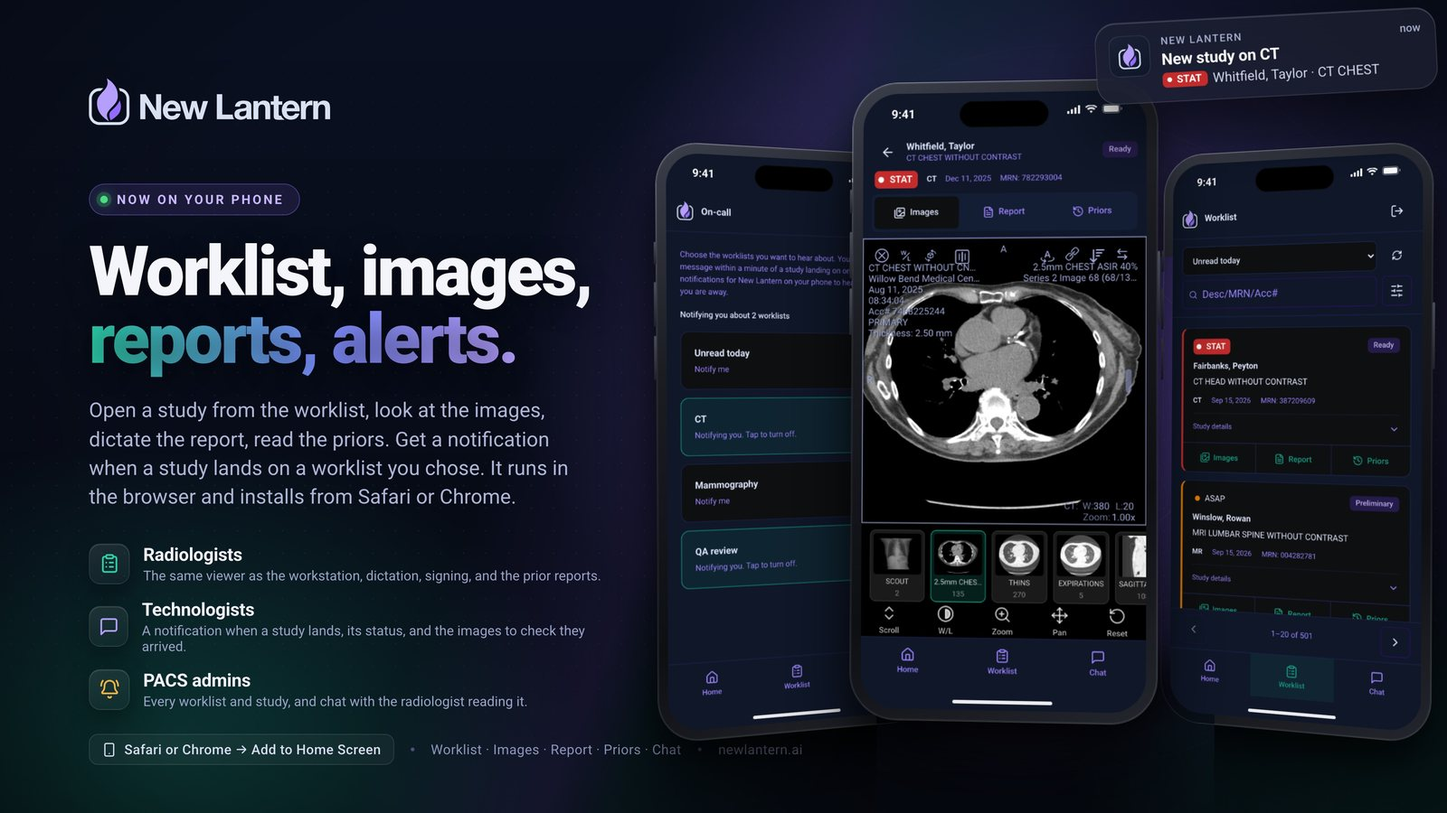
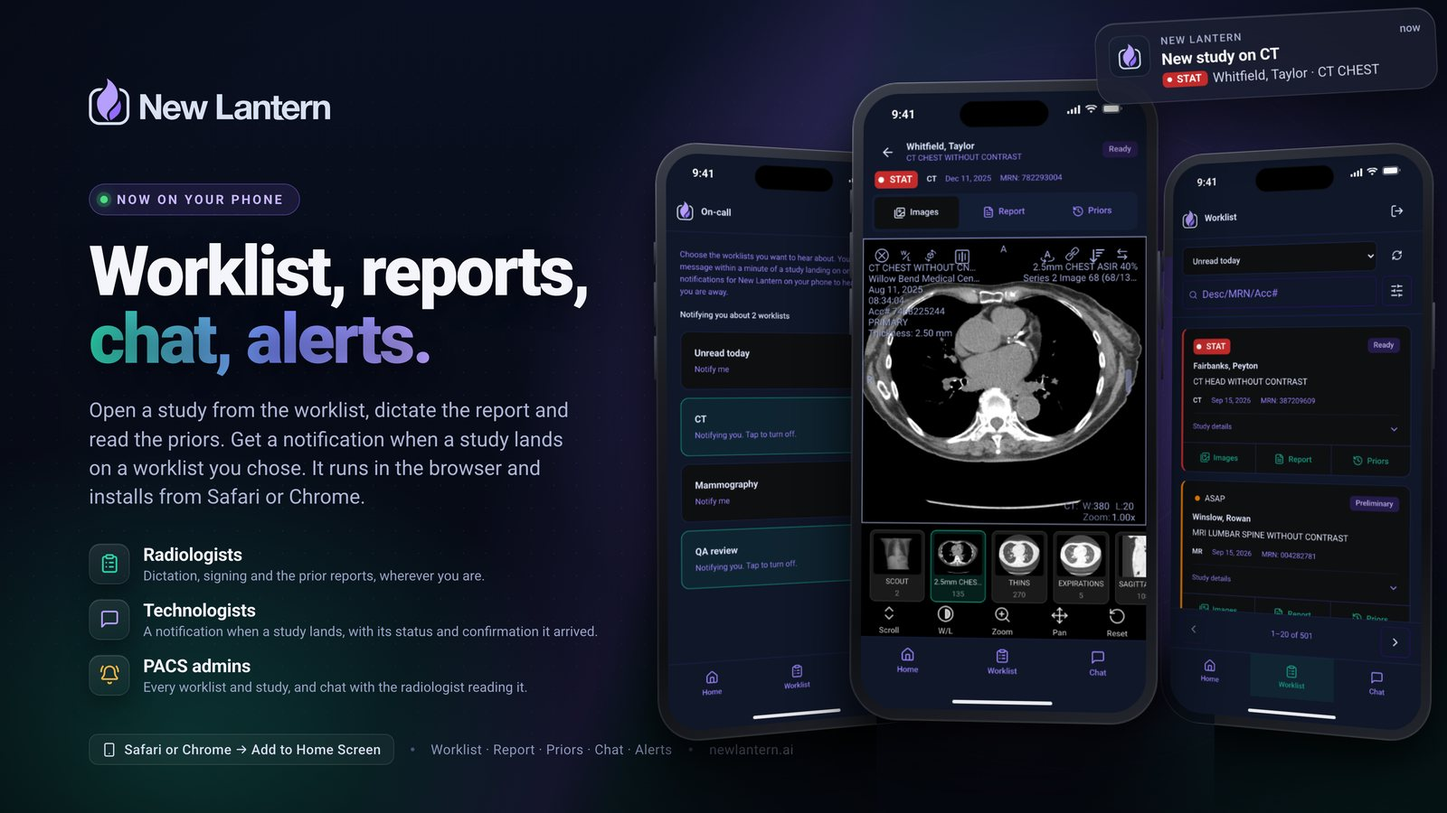
chore(content): describe the phone app viewer without diagnostic claims
Updates the phone app bullet, the phone promo image copy and the
resume PDF.

diff --git a/index.html b/index.html
@@ -110,7 +110,7 @@
                     <rect width="167.118" height="32" fill="white"></rect>
                   </clipPath>
                 </defs>
-              </svg></a></div><div class="role"><span class="dates">Nov 2025 — Present</span><h4 class="role-title"><b>Principal Software Engineer</b> – New Lantern</h4><ul class="highlights"><li>Lead the Viewer team (3 engineers) and own the imaging roadmap. Authored 575 merged PRs across frontend, backend, infra and ML services; reviewed 456 more from 15+ engineers.</li><li>Launched HyperSync: cross-study registration on a Modal-hosted ANTs service (rigid + affine, scored by mutual information) that aligns priors to the current exam, so scrolling, measurements and trend charts follow anatomy. Cut registration from ~3 min to 16 s.</li><li>Cut viewport interaction latency from 3,000 ms to 30 ms on 23,000-image studies and rebuilt frame caching from production telemetry. Platform p90 study load time fell 46% (19.4 s to 10.4 s).</li><li>Rebuilt the admin experience as /manage, one in-product portal for users, studies, patients, sites, billing, audit logs, onboarding, report delivery and critical results. ~30 full-stack PRs in three weeks, plus the customer user guide.</li><li>Built the phone app: worklist, chat, the full diagnostic viewer with touch controls, dictation and sign-off, priors, and on-call alerts within a minute of a study landing.</li><li>Launched New Lantern on the Elgato Stream Deck Marketplace: 120+ actions on physical keys, 6 device profiles, live patient, RVU and chat dials.</li><li>Led incident response and customer escalations across 9 customer groups, including commanding several SEV0 and SEV1 incidents.</li><li>Built the viewer's observability stack (Datadog RUM, browser profiling, GPU telemetry, study-open timing) for a viewer that streams 16M+ image frames (7.7 TB) a week and opens several million studies a month.</li><li>Expanded mammography CAD: Hologic EmphaSize, per-finding and case scores, one-click 2D-to-tomo navigation.</li><li>Co-created the New Lantern Residency (239 completed applications) and led its application platform.</li></ul><div class="media-strip"><button type="button" class="shot" data-full="img/new-lantern/hypersync.jpg" data-caption="HyperSync: current vs prior"><img src="img/new-lantern/hypersync.jpg" alt="HyperSync: current vs prior" loading="lazy"><span>HyperSync: current vs prior</span></button><button type="button" class="shot" data-full="img/new-lantern/phone-app.jpg" data-caption="New Lantern on your phone"><img src="img/new-lantern/phone-app.jpg" alt="New Lantern on your phone" loading="lazy"><span>New Lantern on your phone</span></button><button type="button" class="shot" data-full="img/new-lantern/stream-deck.jpg" data-caption="New Lantern on Stream Deck"><img src="img/new-lantern/stream-deck.jpg" alt="New Lantern on Stream Deck" loading="lazy"><span>New Lantern on Stream Deck</span></button><button type="button" class="shot" data-full="img/new-lantern/admin-console.jpg" data-caption="The /manage admin portal"><img src="img/new-lantern/admin-console.jpg" alt="The /manage admin portal" loading="lazy"><span>The /manage admin portal</span></button></div></div><div class="role"><span class="dates">Oct 2024 — Nov 2025</span><h4 class="role-title"><b>Software Engineer</b> – New Lantern</h4><ul class="highlights"><li>Led the evolution of New Lantern's imaging viewer and product roadmap.</li><li>Delivered a production-grade mammography suite with advanced tools, BI-RADS reporting, and radiologist-centric workflows, expanding New Lantern’s market and driving adoption.</li><li>Designed a production-ready PET/CT and PET/MR fusion module with SUV quantification, tumor segmentation, and MIP 3D visualization, powering oncology workflows and extending New Lantern’s reach into molecular imaging.</li><li>Pioneered a frontend performance overhaul that cut first-pixel load from 1.8s to under 100ms, with CDN edge warming and local caching bringing cached studies down to as low as 10 ms.</li></ul><details class="more"><summary>Show all 10 highlights</summary><ul class="highlights"><li>Engineered a fully customizable and intelligent hanging protocol system, empowering radiologists to define, optimize, and personalize viewing layouts across all imaging modalities.</li><li>Engineered high-performance multi-monitor support for the core radiology viewer, enabling seamless configuration and synchronized image display across up to four monitors.</li><li>Integrated advanced AI models into clinical workflows, including SAM 2 for interactive medical image segmentation, TotalSegmentator for multi-organ labeling, and LLMs for structured report generation, accelerating diagnostic workflows and enabling intelligent automation.</li><li>Led a large-scale refactor of the viewer’s architecture, introducing clean separation of concerns, modular builds, and scalable design patterns to dramatically reduce technical debt and improve maintainability.</li><li>Served as the go-to expert for DICOM and medical imaging, contributing deep knowledge in image decoding, rendering optimization, and diagnostic workflow support across the platform.</li><li>Established structured planning with estimates and milestones, improving engineering throughput.</li></ul></details><div class="media-strip"><button type="button" class="shot" data-full="img/work/nl-mammography-viewer.jpg" data-caption="Mammography viewer"><img src="img/work/nl-mammography-viewer.jpg" alt="Mammography viewer" loading="lazy"><span>Mammography viewer</span></button><button type="button" class="shot" data-full="img/work/nl-pet-viewer.jpg" data-caption="PET/CT and PET/MR viewer"><img src="img/work/nl-pet-viewer.jpg" alt="PET/CT and PET/MR viewer" loading="lazy"><span>PET/CT and PET/MR viewer</span></button><button type="button" class="shot" data-full="img/work/nl-hanging-protocols.jpg" data-caption="Hanging protocols"><img src="img/work/nl-hanging-protocols.jpg" alt="Hanging protocols" loading="lazy"><span>Hanging protocols</span></button><button type="button" class="shot" data-full="img/work/nl-multi-monitor.jpg" data-caption="Multi-monitor support"><img src="img/work/nl-multi-monitor.jpg" alt="Multi-monitor support" loading="lazy"><span>Multi-monitor support</span></button><button type="button" class="shot" data-full="img/work/nl-mammography-toolkit.jpg" data-caption="Mammography toolkit"><img src="img/work/nl-mammography-toolkit.jpg" alt="Mammography toolkit" loading="lazy"><span>Mammography toolkit</span></button><button type="button" class="shot" data-full="img/work/nl-webgl-context-pooling.jpg" data-caption="WebGL context pooling"><img src="img/work/nl-webgl-context-pooling.jpg" alt="WebGL context pooling" loading="lazy"><span>WebGL context pooling</span></button><button type="button" class="shot" data-full="img/work/cs3d-webgl-context-pool.jpg" data-caption="Cornerstone3D #2190: WebGLContextPool"><img src="img/work/cs3d-webgl-context-pool.jpg" alt="Cornerstone3D #2190: WebGLContextPool" loading="lazy"><span>Cornerstone3D #2190: WebGLContextPool</span></button><button type="button" class="shot" data-full="img/work/cs3d-sequential-rendering.jpg" data-caption="Cornerstone3D #2181: SequentialRenderingEngine"><img src="img/work/cs3d-sequential-rendering.jpg" alt="Cornerstone3D #2181: SequentialRenderingEngine" loading="lazy"><span>Cornerstone3D #2181: SequentialRenderingEngine</span></button></div></div></article><article class="resume-item"><div class="company-logo"><a href="https://radicalimaging.com/" target="_blank" rel="noopener noreferrer"><img src="img/radical-imaging.png" height="48" alt="Radical Imaging logo"></a></div><div class="role"><span class="dates">2023 — 2025</span><h4 class="role-title"><b>Lead Software Engineer</b> – Radical Imaging</h4><ul class="highlights"><li>Led the team of engineers behind the flexible SaaS DICOM viewer FlexView.</li><li>Engineered a flexible SaaS DICOM viewer using NestJS and NextJS. This cloud-based viewer effortlessly integrates with diverse workflows, maintaining its core functionality while providing adaptability.</li><li>Core maintainer of Cornerstone3D (https://www.cornerstonejs.org/) and Open Health Imaging Foundation OHIF (https://ohif.org/).</li><li>Integrated AWS Marketplace into our SaaS offerings, resulting in a remarkable 40% surge in customer acquisition.</li></ul><details class="more"><summary>Show all 11 highlights</summary><ul class="highlights"><li>Developed software solutions to tackle challenges in medical imaging projects, primarily focusing on web development, cloud, and AI.</li><li>Addressed and rectified critical security vulnerabilities within the AWS infrastructure, leading to substantial improvements in security and system integrity.</li><li>Successfully integrated Pager-Duty for real-time outage monitoring, achieving a notable reduction in system downtime and streamlining issue resolution processes.</li><li>Established validation methods for existing clinical tools in the viewer, streamlining the FDA application process and ensuring compliance with regulatory standards.</li><li>Implemented comprehensive automated testing strategies, leveraging frameworks such as Jest, Cypress, and Playwright, which increased code reliability and reduced debugging time by 30%.</li><li>Engineered multiple integrations for our SaaS DICOM viewer, notably with EPIC EHR, NVIDIA's MONAI for AI-enhanced medical imaging, and major cloud services, enhancing interoperability and utility in healthcare.</li><li>Enhanced on-premise deployment and authentication for the OHIF viewer by integrating KeyCloak, oauth-2proxy, and nginx, resulting in a seamless and secure deployment process.</li></ul></details><div class="media-strip"><button type="button" class="shot" data-full="img/work/radical-flexview.jpg" data-caption="FlexView DICOM viewer"><img src="img/work/radical-flexview.jpg" alt="FlexView DICOM viewer" loading="lazy"><span>FlexView DICOM viewer</span></button><button type="button" class="shot" data-full="img/work/radical-ohif-v38.jpg" data-caption="OHIF v3.8 showcase"><img src="img/work/radical-ohif-v38.jpg" alt="OHIF v3.8 showcase" loading="lazy"><span>OHIF v3.8 showcase</span></button><button type="button" class="shot" data-full="img/work/radical-aws-marketplace.jpg" data-caption="FlexView on AWS Marketplace"><img src="img/work/radical-aws-marketplace.jpg" alt="FlexView on AWS Marketplace" loading="lazy"><span>FlexView on AWS Marketplace</span></button><button type="button" class="shot" data-full="img/work/radical-itcr.jpg" data-caption="ITCR contributions"><img src="img/work/radical-itcr.jpg" alt="ITCR contributions" loading="lazy"><span>ITCR contributions</span></button><button type="button" class="shot" data-full="img/work/radical-ohif-rbac.jpg" data-caption="RBAC for OHIF with Keycloak, OAuth2 Proxy and nginx"><img src="img/work/radical-ohif-rbac.jpg" alt="RBAC for OHIF with Keycloak, OAuth2 Proxy and nginx" loading="lazy"><span>RBAC for OHIF with Keycloak, OAuth2 Proxy and nginx</span></button><button type="button" class="shot" data-full="img/work/radical-playwright.jpg" data-caption="OHIF docs: writing Playwright tests"><img src="img/work/radical-playwright.jpg" alt="OHIF docs: writing Playwright tests" loading="lazy"><span>OHIF docs: writing Playwright tests</span></button><button type="button" class="shot" data-full="img/work/radical-ohif-app-types.jpg" data-caption="OHIF docs: extending app types and services"><img src="img/work/radical-ohif-app-types.jpg" alt="OHIF docs: extending app types and services" loading="lazy"><span>OHIF docs: extending app types and services</span></button><button type="button" class="shot" data-full="img/work/radical-ohif-mobile-debugging.jpg" data-caption="OHIF docs: Android and iOS debugging"><img src="img/work/radical-ohif-mobile-debugging.jpg" alt="OHIF docs: Android and iOS debugging" loading="lazy"><span>OHIF docs: Android and iOS debugging</span></button></div></div></article><article class="resume-item"><div class="company-logo"><a href="https://www.hgj.ca" target="_blank" rel="noopener noreferrer"><img src="img/CIUSSS-West-Central-Montreal.png" height="48" alt="CIUSSS West-Central Montreal logo"></a></div><div class="role"><span class="dates">2022 — 2023</span><h4 class="role-title"><b>Software Engineer</b> – CIUSSS West-Central Montreal</h4><ul class="highlights"><li>Deployed and configured ML models on AWS, using EC2 accelerated compute instances and Sagemaker.</li><li>Programmed a web-based DICOM viewer with extreme performance by utilizing Vue3 and CornerstoneJS's robust accelerated image display and multi-threaded image decoding.</li><li>Built a user authentication system using AWS Cognito and FastAPI to verify user JWT tokens.</li></ul><details class="more"><summary>Show all 6 highlights</summary><ul class="highlights"><li>Prepared ML models for inference using FastAPI, Nginx, and AWS Load Balancer.</li><li>Engineered several architectural diagrams and led planning of app development and infrastructure design.</li><li>Beta tester for Amazon HealthLake Imaging.</li></ul></details></div></article><article class="resume-item"><div class="company-logo"><a href="https://grafana.com/" target="_blank" rel="noopener noreferrer"><img src="img/Grafana_logo.svg.png" height="48" alt="Grafana Labs logo"></a></div><div class="role"><span class="dates">Winter 2022</span><h4 class="role-title"><b>Software Engineer</b> – Grafana Labs</h4><ul class="highlights"><li>Designed and implemented an admin page for managing feature toggles, allowing users to toggle features independently, enhancing user autonomy, and reducing support load.</li><li>Contributed to significantly reducing user reliance on support by facilitating direct visibility into active feature toggles on their Grafana instance.</li></ul><details class="more"><summary>Show all 4 highlights</summary><ul class="highlights"><li>Authored comprehensive design documents detailing the new feature's functionality, architecture, and user flow.</li><li>Gained hands-on experience with Golang, integrating backend API endpoints, and utilized React/TS for front-end components, ensuring responsive and dynamic UI/UX.</li></ul></details></div></article>
+              </svg></a></div><div class="role"><span class="dates">Nov 2025 — Present</span><h4 class="role-title"><b>Principal Software Engineer</b> – New Lantern</h4><ul class="highlights"><li>Lead the Viewer team (3 engineers) and own the imaging roadmap. Authored 575 merged PRs across frontend, backend, infra and ML services; reviewed 456 more from 15+ engineers.</li><li>Launched HyperSync: cross-study registration on a Modal-hosted ANTs service (rigid + affine, scored by mutual information) that aligns priors to the current exam, so scrolling, measurements and trend charts follow anatomy. Cut registration from ~3 min to 16 s.</li><li>Cut viewport interaction latency from 3,000 ms to 30 ms on 23,000-image studies and rebuilt frame caching from production telemetry. Platform p90 study load time fell 46% (19.4 s to 10.4 s).</li><li>Rebuilt the admin experience as /manage, one in-product portal for users, studies, patients, sites, billing, audit logs, onboarding, report delivery and critical results. ~30 full-stack PRs in three weeks, plus the customer user guide.</li><li>Built the phone app: worklist, chat, the viewer with touch controls, dictation and sign-off, priors, and on-call alerts within a minute of a study landing.</li><li>Launched New Lantern on the Elgato Stream Deck Marketplace: 120+ actions on physical keys, 6 device profiles, live patient, RVU and chat dials.</li><li>Led incident response and customer escalations across 9 customer groups, including commanding several SEV0 and SEV1 incidents.</li><li>Built the viewer's observability stack (Datadog RUM, browser profiling, GPU telemetry, study-open timing) for a viewer that streams 16M+ image frames (7.7 TB) a week and opens several million studies a month.</li><li>Expanded mammography CAD: Hologic EmphaSize, per-finding and case scores, one-click 2D-to-tomo navigation.</li><li>Co-created the New Lantern Residency (239 completed applications) and led its application platform.</li></ul><div class="media-strip"><button type="button" class="shot" data-full="img/new-lantern/hypersync.jpg" data-caption="HyperSync: current vs prior"><img src="img/new-lantern/hypersync.jpg" alt="HyperSync: current vs prior" loading="lazy"><span>HyperSync: current vs prior</span></button><button type="button" class="shot" data-full="img/new-lantern/phone-app.jpg" data-caption="New Lantern on your phone"><img src="img/new-lantern/phone-app.jpg" alt="New Lantern on your phone" loading="lazy"><span>New Lantern on your phone</span></button><button type="button" class="shot" data-full="img/new-lantern/stream-deck.jpg" data-caption="New Lantern on Stream Deck"><img src="img/new-lantern/stream-deck.jpg" alt="New Lantern on Stream Deck" loading="lazy"><span>New Lantern on Stream Deck</span></button><button type="button" class="shot" data-full="img/new-lantern/admin-console.jpg" data-caption="The /manage admin portal"><img src="img/new-lantern/admin-console.jpg" alt="The /manage admin portal" loading="lazy"><span>The /manage admin portal</span></button></div></div><div class="role"><span class="dates">Oct 2024 — Nov 2025</span><h4 class="role-title"><b>Software Engineer</b> – New Lantern</h4><ul class="highlights"><li>Led the evolution of New Lantern's imaging viewer and product roadmap.</li><li>Delivered a production-grade mammography suite with advanced tools, BI-RADS reporting, and radiologist-centric workflows, expanding New Lantern’s market and driving adoption.</li><li>Designed a production-ready PET/CT and PET/MR fusion module with SUV quantification, tumor segmentation, and MIP 3D visualization, powering oncology workflows and extending New Lantern’s reach into molecular imaging.</li><li>Pioneered a frontend performance overhaul that cut first-pixel load from 1.8s to under 100ms, with CDN edge warming and local caching bringing cached studies down to as low as 10 ms.</li></ul><details class="more"><summary>Show all 10 highlights</summary><ul class="highlights"><li>Engineered a fully customizable and intelligent hanging protocol system, empowering radiologists to define, optimize, and personalize viewing layouts across all imaging modalities.</li><li>Engineered high-performance multi-monitor support for the core radiology viewer, enabling seamless configuration and synchronized image display across up to four monitors.</li><li>Integrated advanced AI models into clinical workflows, including SAM 2 for interactive medical image segmentation, TotalSegmentator for multi-organ labeling, and LLMs for structured report generation, accelerating diagnostic workflows and enabling intelligent automation.</li><li>Led a large-scale refactor of the viewer’s architecture, introducing clean separation of concerns, modular builds, and scalable design patterns to dramatically reduce technical debt and improve maintainability.</li><li>Served as the go-to expert for DICOM and medical imaging, contributing deep knowledge in image decoding, rendering optimization, and diagnostic workflow support across the platform.</li><li>Established structured planning with estimates and milestones, improving engineering throughput.</li></ul></details><div class="media-strip"><button type="button" class="shot" data-full="img/work/nl-mammography-viewer.jpg" data-caption="Mammography viewer"><img src="img/work/nl-mammography-viewer.jpg" alt="Mammography viewer" loading="lazy"><span>Mammography viewer</span></button><button type="button" class="shot" data-full="img/work/nl-pet-viewer.jpg" data-caption="PET/CT and PET/MR viewer"><img src="img/work/nl-pet-viewer.jpg" alt="PET/CT and PET/MR viewer" loading="lazy"><span>PET/CT and PET/MR viewer</span></button><button type="button" class="shot" data-full="img/work/nl-hanging-protocols.jpg" data-caption="Hanging protocols"><img src="img/work/nl-hanging-protocols.jpg" alt="Hanging protocols" loading="lazy"><span>Hanging protocols</span></button><button type="button" class="shot" data-full="img/work/nl-multi-monitor.jpg" data-caption="Multi-monitor support"><img src="img/work/nl-multi-monitor.jpg" alt="Multi-monitor support" loading="lazy"><span>Multi-monitor support</span></button><button type="button" class="shot" data-full="img/work/nl-mammography-toolkit.jpg" data-caption="Mammography toolkit"><img src="img/work/nl-mammography-toolkit.jpg" alt="Mammography toolkit" loading="lazy"><span>Mammography toolkit</span></button><button type="button" class="shot" data-full="img/work/nl-webgl-context-pooling.jpg" data-caption="WebGL context pooling"><img src="img/work/nl-webgl-context-pooling.jpg" alt="WebGL context pooling" loading="lazy"><span>WebGL context pooling</span></button><button type="button" class="shot" data-full="img/work/cs3d-webgl-context-pool.jpg" data-caption="Cornerstone3D #2190: WebGLContextPool"><img src="img/work/cs3d-webgl-context-pool.jpg" alt="Cornerstone3D #2190: WebGLContextPool" loading="lazy"><span>Cornerstone3D #2190: WebGLContextPool</span></button><button type="button" class="shot" data-full="img/work/cs3d-sequential-rendering.jpg" data-caption="Cornerstone3D #2181: SequentialRenderingEngine"><img src="img/work/cs3d-sequential-rendering.jpg" alt="Cornerstone3D #2181: SequentialRenderingEngine" loading="lazy"><span>Cornerstone3D #2181: SequentialRenderingEngine</span></button></div></div></article><article class="resume-item"><div class="company-logo"><a href="https://radicalimaging.com/" target="_blank" rel="noopener noreferrer"><img src="img/radical-imaging.png" height="48" alt="Radical Imaging logo"></a></div><div class="role"><span class="dates">2023 — 2025</span><h4 class="role-title"><b>Lead Software Engineer</b> – Radical Imaging</h4><ul class="highlights"><li>Led the team of engineers behind the flexible SaaS DICOM viewer FlexView.</li><li>Engineered a flexible SaaS DICOM viewer using NestJS and NextJS. This cloud-based viewer effortlessly integrates with diverse workflows, maintaining its core functionality while providing adaptability.</li><li>Core maintainer of Cornerstone3D (https://www.cornerstonejs.org/) and Open Health Imaging Foundation OHIF (https://ohif.org/).</li><li>Integrated AWS Marketplace into our SaaS offerings, resulting in a remarkable 40% surge in customer acquisition.</li></ul><details class="more"><summary>Show all 11 highlights</summary><ul class="highlights"><li>Developed software solutions to tackle challenges in medical imaging projects, primarily focusing on web development, cloud, and AI.</li><li>Addressed and rectified critical security vulnerabilities within the AWS infrastructure, leading to substantial improvements in security and system integrity.</li><li>Successfully integrated Pager-Duty for real-time outage monitoring, achieving a notable reduction in system downtime and streamlining issue resolution processes.</li><li>Established validation methods for existing clinical tools in the viewer, streamlining the FDA application process and ensuring compliance with regulatory standards.</li><li>Implemented comprehensive automated testing strategies, leveraging frameworks such as Jest, Cypress, and Playwright, which increased code reliability and reduced debugging time by 30%.</li><li>Engineered multiple integrations for our SaaS DICOM viewer, notably with EPIC EHR, NVIDIA's MONAI for AI-enhanced medical imaging, and major cloud services, enhancing interoperability and utility in healthcare.</li><li>Enhanced on-premise deployment and authentication for the OHIF viewer by integrating KeyCloak, oauth-2proxy, and nginx, resulting in a seamless and secure deployment process.</li></ul></details><div class="media-strip"><button type="button" class="shot" data-full="img/work/radical-flexview.jpg" data-caption="FlexView DICOM viewer"><img src="img/work/radical-flexview.jpg" alt="FlexView DICOM viewer" loading="lazy"><span>FlexView DICOM viewer</span></button><button type="button" class="shot" data-full="img/work/radical-ohif-v38.jpg" data-caption="OHIF v3.8 showcase"><img src="img/work/radical-ohif-v38.jpg" alt="OHIF v3.8 showcase" loading="lazy"><span>OHIF v3.8 showcase</span></button><button type="button" class="shot" data-full="img/work/radical-aws-marketplace.jpg" data-caption="FlexView on AWS Marketplace"><img src="img/work/radical-aws-marketplace.jpg" alt="FlexView on AWS Marketplace" loading="lazy"><span>FlexView on AWS Marketplace</span></button><button type="button" class="shot" data-full="img/work/radical-itcr.jpg" data-caption="ITCR contributions"><img src="img/work/radical-itcr.jpg" alt="ITCR contributions" loading="lazy"><span>ITCR contributions</span></button><button type="button" class="shot" data-full="img/work/radical-ohif-rbac.jpg" data-caption="RBAC for OHIF with Keycloak, OAuth2 Proxy and nginx"><img src="img/work/radical-ohif-rbac.jpg" alt="RBAC for OHIF with Keycloak, OAuth2 Proxy and nginx" loading="lazy"><span>RBAC for OHIF with Keycloak, OAuth2 Proxy and nginx</span></button><button type="button" class="shot" data-full="img/work/radical-playwright.jpg" data-caption="OHIF docs: writing Playwright tests"><img src="img/work/radical-playwright.jpg" alt="OHIF docs: writing Playwright tests" loading="lazy"><span>OHIF docs: writing Playwright tests</span></button><button type="button" class="shot" data-full="img/work/radical-ohif-app-types.jpg" data-caption="OHIF docs: extending app types and services"><img src="img/work/radical-ohif-app-types.jpg" alt="OHIF docs: extending app types and services" loading="lazy"><span>OHIF docs: extending app types and services</span></button><button type="button" class="shot" data-full="img/work/radical-ohif-mobile-debugging.jpg" data-caption="OHIF docs: Android and iOS debugging"><img src="img/work/radical-ohif-mobile-debugging.jpg" alt="OHIF docs: Android and iOS debugging" loading="lazy"><span>OHIF docs: Android and iOS debugging</span></button></div></div></article><article class="resume-item"><div class="company-logo"><a href="https://www.hgj.ca" target="_blank" rel="noopener noreferrer"><img src="img/CIUSSS-West-Central-Montreal.png" height="48" alt="CIUSSS West-Central Montreal logo"></a></div><div class="role"><span class="dates">2022 — 2023</span><h4 class="role-title"><b>Software Engineer</b> – CIUSSS West-Central Montreal</h4><ul class="highlights"><li>Deployed and configured ML models on AWS, using EC2 accelerated compute instances and Sagemaker.</li><li>Programmed a web-based DICOM viewer with extreme performance by utilizing Vue3 and CornerstoneJS's robust accelerated image display and multi-threaded image decoding.</li><li>Built a user authentication system using AWS Cognito and FastAPI to verify user JWT tokens.</li></ul><details class="more"><summary>Show all 6 highlights</summary><ul class="highlights"><li>Prepared ML models for inference using FastAPI, Nginx, and AWS Load Balancer.</li><li>Engineered several architectural diagrams and led planning of app development and infrastructure design.</li><li>Beta tester for Amazon HealthLake Imaging.</li></ul></details></div></article><article class="resume-item"><div class="company-logo"><a href="https://grafana.com/" target="_blank" rel="noopener noreferrer"><img src="img/Grafana_logo.svg.png" height="48" alt="Grafana Labs logo"></a></div><div class="role"><span class="dates">Winter 2022</span><h4 class="role-title"><b>Software Engineer</b> – Grafana Labs</h4><ul class="highlights"><li>Designed and implemented an admin page for managing feature toggles, allowing users to toggle features independently, enhancing user autonomy, and reducing support load.</li><li>Contributed to significantly reducing user reliance on support by facilitating direct visibility into active feature toggles on their Grafana instance.</li></ul><details class="more"><summary>Show all 4 highlights</summary><ul class="highlights"><li>Authored comprehensive design documents detailing the new feature's functionality, architecture, and user flow.</li><li>Gained hands-on experience with Golang, integrating backend API endpoints, and utilized React/TS for front-end components, ensuring responsive and dynamic UI/UX.</li></ul></details></div></article>
           </section>
         </div>
         <aside class="col-12 col-lg-4 sidebar">
